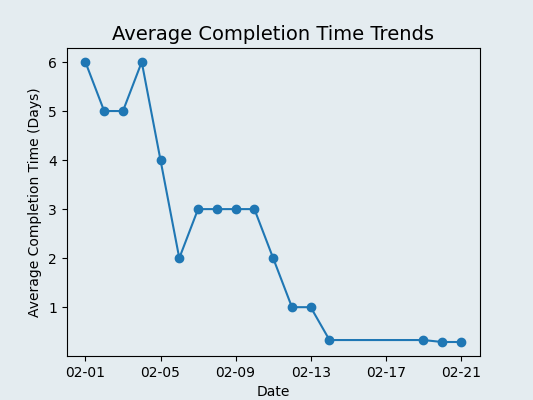
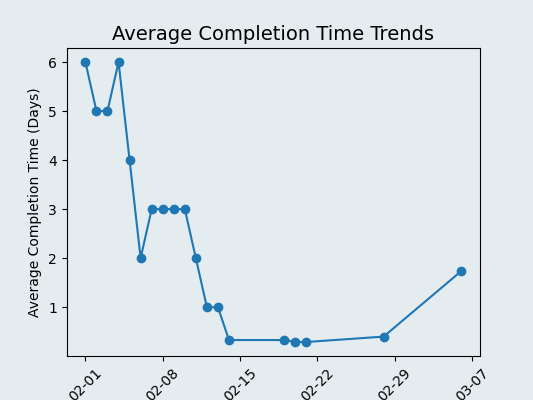
Updated script and added unit tests

diff --git a/source/static/scripts/scripts.js b/source/static/scripts/scripts.js
@@ -58,8 +58,5 @@ document.addEventListener('DOMContentLoaded', function () {
         document.body.appendChild(popup);
     }
 
-
-
-
 });
 

diff --git a/source/test_app.py b/source/test_app.py
@@ -1,0 +1,36 @@
+import unittest
+from flask import Flask
+from flask.testing import FlaskClient
+from app import app, ToDoList
+
+# 1. Test the add_task method in the ToDoList class.
+# 2. Test the delete_task method in the ToDoList class.
+# 3. Test the index route in Flask application.
+class TestToDoList(unittest.TestCase):
+    def setUp(self):
+        self.app = app
+        self.client = self.app.test_client()
+        self.to_do_list = ToDoList()
+
+    def test_add_task(self):
+        initial_task_count = len(self.to_do_list.view_tasks())
+        self.to_do_list.add_task('Test Task', '2023-12-31')
+        final_task_count = len(self.to_do_list.view_tasks())
+        self.assertEqual(final_task_count, initial_task_count + 1)
+        print(f"Test add_task: initial={initial_task_count}, after adding task={final_task_count}")
+
+    def test_delete_task(self):
+        self.to_do_list.add_task('Test Task for Deletion', '2023-12-31')
+        initial_task_count = len(self.to_do_list.view_tasks())
+        self.to_do_list.delete_task(initial_task_count - 1)
+        final_task_count = len(self.to_do_list.view_tasks())
+        self.assertEqual(final_task_count, initial_task_count - 1)
+        print(f"Test delete_task: initial={initial_task_count}, after deleting task={final_task_count}")
+
+    def test_index_route(self):
+        response = self.client.get('/')
+        self.assertEqual(response.status_code, 200)
+        print(f"Test index_route: status code={response.status_code}")
+
+if __name__ == '__main__':
+    unittest.main()

diff --git a/source/app.py b/source/app.py
@@ -219,8 +219,12 @@ class ToDoList:
             plt.xlabel('Date')
             plt.ylabel('Average Completion Time (Days)')
             plt.title('Average Completion Time Trends', fontsize=14)
-            plt.xticks(rotation=None,fontsize=10)  # Rotate x-axis ex: rotation=90 for labels vertically and change font-size
 
+            # Set x-axis ticks to display at 7-day intervals
+            plt.gca().xaxis.set_major_locator(plt.MultipleLocator(7))
+
+            plt.xticks(rotation=45,
+                       fontsize=10)  # Rotate x-axis ex: rotation=90 for labels vertically and change font-size
 
             # Use os.path.join to create the image path
             trend_line_graph_path = os.path.join('static', 'assets', 'trend_line_graph.png')
@@ -229,7 +233,6 @@ class ToDoList:
             return trend_line_graph_path
         except mysql.connector.Error as err:
             print("Error occurred:", err)
-
     def close_connection(self):
         try:
             self.conn.close()
